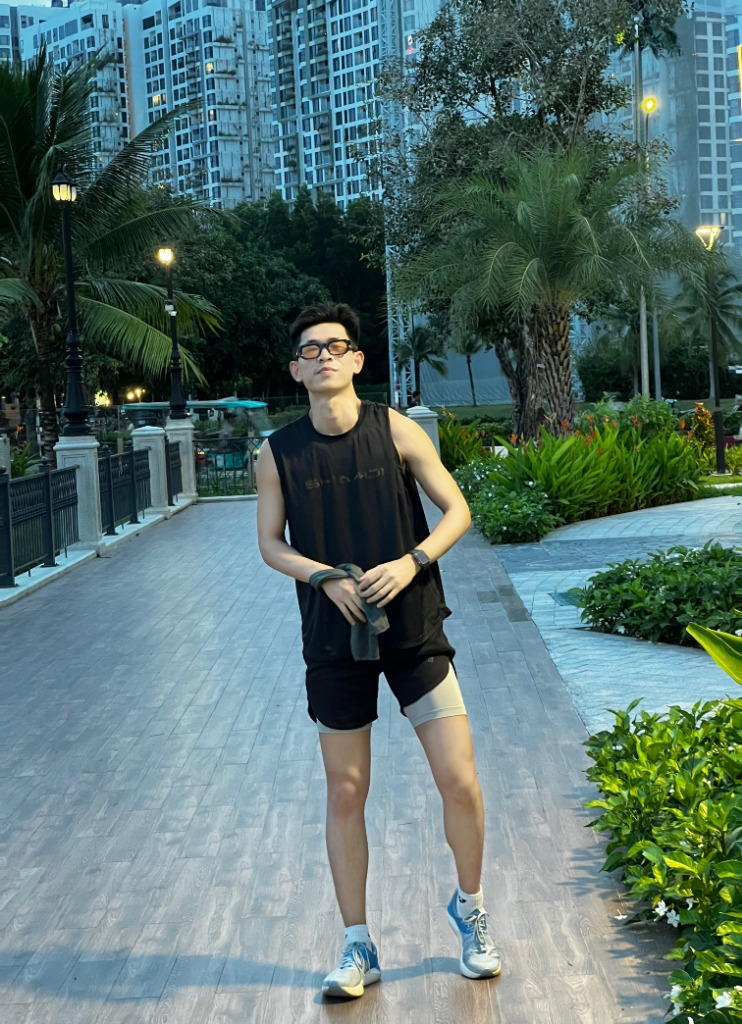
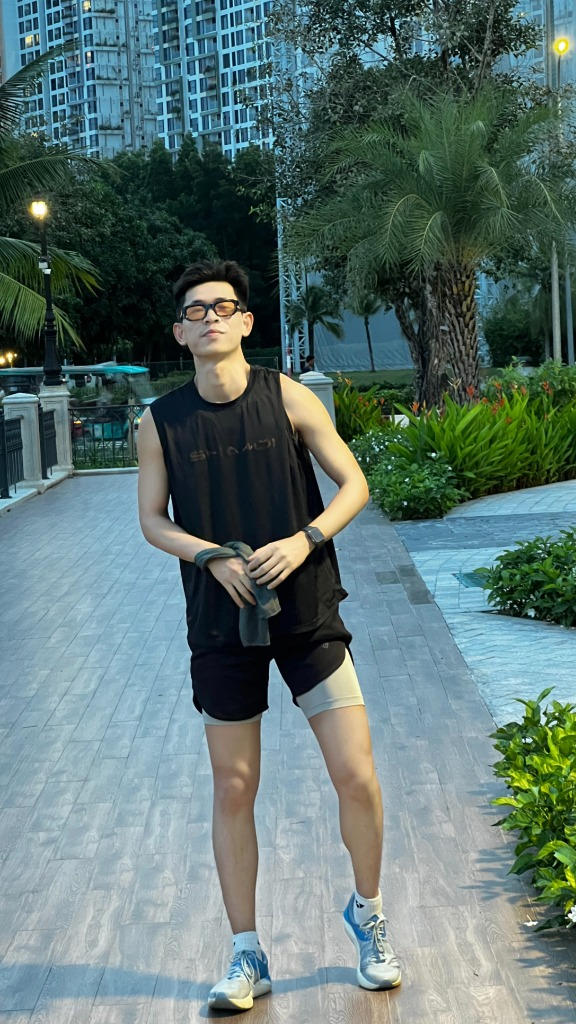
style: Move comparison photo label badges above images and update full vertical runner photo

diff --git a/app/page.tsx b/app/page.tsx
@@ -784,69 +784,68 @@ export default function Home() {
                 </svg>
               </div>
 
-              {/* COMPARISON PHOTOS SIDE BY SIDE */}
+              {/* COMPARISON PHOTOS SIDE BY SIDE WITH LABELS ABOVE */}
               <div style={{
                 display: "grid",
                 gridTemplateColumns: "repeat(auto-fit, minmax(260px, 1fr))",
-                gap: "20px",
+                gap: "24px",
                 maxWidth: "680px",
                 margin: "0 auto 36px"
               }}>
-                <div style={{ position: "relative" }}>
+                {/* BEFORE ITEM */}
+                <div style={{ display: "flex", flexDirection: "column", gap: "10px" }}>
+                  <div style={{
+                    background: "rgba(0,0,0,0.6)",
+                    border: "1px solid #3E2B23",
+                    color: "#A9B2AC",
+                    fontSize: "14px",
+                    fontWeight: 700,
+                    padding: "8px 14px",
+                    borderRadius: "8px",
+                    textAlign: "center"
+                  }}>
+                    2023 (Tự mò & giằng co)
+                  </div>
                   <img
                     src="/images/dat_trade_fair_2023.png"
                     alt="Đạt trước đây - 2023"
                     style={{
                       width: "100%",
-                      height: "360px",
+                      height: "440px",
                       objectFit: "cover",
                       borderRadius: "16px",
                       border: "1px solid #4A352C",
                       boxShadow: "0 12px 30px rgba(0,0,0,0.5)"
                     }}
                   />
-                  <span style={{
-                    position: "absolute",
-                    bottom: "12px",
-                    left: "12px",
-                    background: "rgba(0,0,0,0.75)",
-                    backdropFilter: "blur(6px)",
-                    color: "#A9B2AC",
-                    fontSize: "12px",
-                    fontWeight: 700,
-                    padding: "4px 10px",
-                    borderRadius: "6px"
-                  }}>
-                    2023 (Tự mò & giằng co)
-                  </span>
                 </div>
 
-                <div style={{ position: "relative" }}>
+                {/* AFTER ITEM */}
+                <div style={{ display: "flex", flexDirection: "column", gap: "10px" }}>
+                  <div style={{
+                    background: "#D96732",
+                    color: "#FFFFFF",
+                    fontSize: "14px",
+                    fontWeight: 800,
+                    padding: "8px 14px",
+                    borderRadius: "8px",
+                    textAlign: "center",
+                    boxShadow: "0 4px 14px rgba(217,103,50,0.3)"
+                  }}>
+                    Hiện tại (Tự chủ hoàn toàn)
+                  </div>
                   <img
                     src="/images/dat_park_runner.jpg"
                     alt="Đạt bây giờ - Tự chủ & Khỏe mạnh"
                     style={{
                       width: "100%",
-                      height: "360px",
+                      height: "440px",
                       objectFit: "cover",
                       borderRadius: "16px",
                       border: "2px solid #D96732",
                       boxShadow: "0 12px 35px rgba(217,103,50,0.25)"
                     }}
                   />
-                  <span style={{
-                    position: "absolute",
-                    bottom: "12px",
-                    left: "12px",
-                    background: "rgba(217,103,50,0.9)",
-                    color: "#FFFFFF",
-                    fontSize: "12px",
-                    fontWeight: 800,
-                    padding: "4px 10px",
-                    borderRadius: "6px"
-                  }}>
-                    Hiện tại (Tự chủ hoàn toàn)
-                  </span>
                 </div>
               </div>
 
